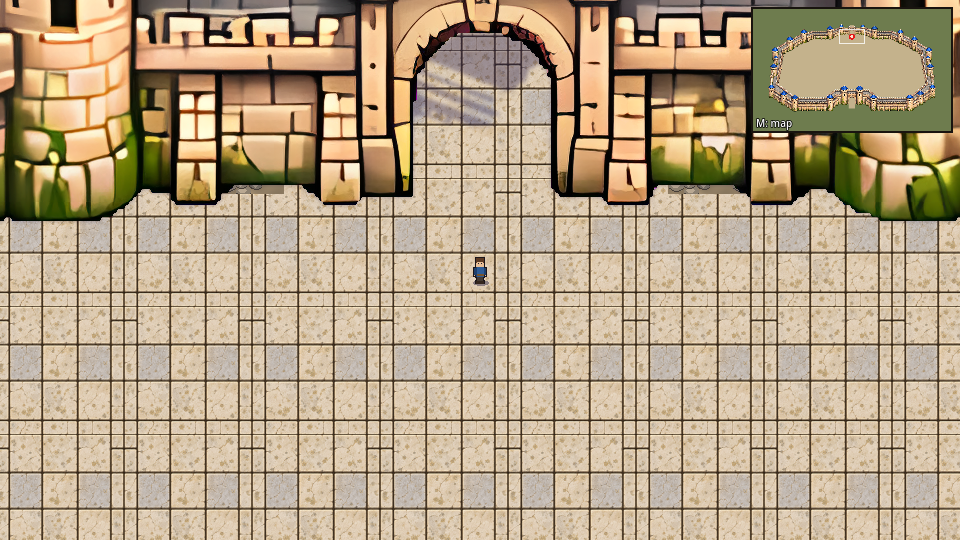
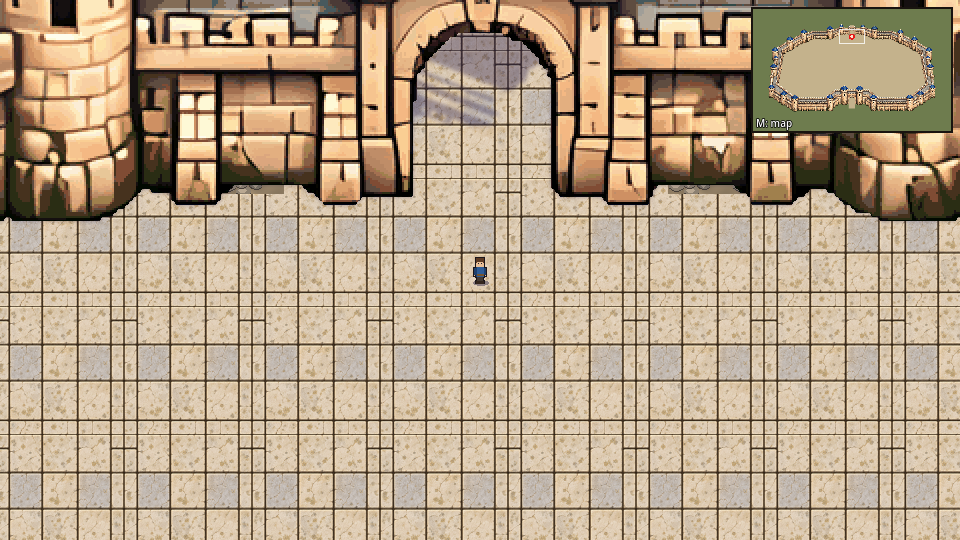
Sharpen the wall art: crisp pixel-art pass, magenta fringe removed
Same structure; the 4x upscale is snapped to a 2x2-pixel grid with a 48-colour palette.

Claude-Session: https://claude.ai/code/session_01GSamoHXsCumctgS8PFsM3M

Changed region(s): [[0.0, 0.0, 1.0, 0.4148], [0.3438, 0.3556, 0.375, 0.3852], [0.0, 0.0, 0.0312, 0.0296]]

diff --git a/tools/pixelize.py b/tools/pixelize.py
@@ -1,0 +1,17 @@
+"""Turns the soft 4x upscale into crisp pixel art: down to a 2x pixel grid, 48-colour palette (no dithering),
+then nearest-neighbour back to 4x, so every art pixel is a hard-edged 2x2 game-pixel block.
+  python3 tools/pixelize.py <ring_x4.png> <out.png> [colours]"""
+import sys
+import numpy as np
+from PIL import Image
+im = Image.open(sys.argv[1]).convert("RGB")
+# magenta bleed from the backdrop: turn pinkish edge pixels into the dark outline colour
+a = np.array(im).astype(int)
+r, g, b = a[..., 0], a[..., 1], a[..., 2]
+pink = (r - g > 50) & (b - g > 40) & (b > 90)
+a[pink] = (46, 34, 38)
+im = Image.fromarray(a.astype(np.uint8))
+n = int(sys.argv[3]) if len(sys.argv) > 3 else 48
+w2, h2 = im.width // 2, im.height // 2
+q = im.resize((w2, h2), Image.LANCZOS).quantize(colors=n, method=Image.Quantize.MEDIANCUT, dither=Image.Dither.NONE)
+q.convert("RGB").resize((w2 * 2, h2 * 2), Image.NEAREST).save(sys.argv[2])

diff --git a/README.md b/README.md
@@ -9,7 +9,7 @@ The outer palace wall ring, built from the single whole-ring image `art/source/w
 
 ## How it is built
 - The ring image is keyed off its magenta backdrop and upscaled 4x (Real-ESRGAN anime 6B, run in numpy:
-  `tools/upscale/`). Because it is one picture there are no joins between pieces.
+  `tools/upscale/`), then made crisp pixel art by `tools/pixelize.py` (2x2 game-pixel blocks, 48-colour palette). Because it is one picture there are no joins between pieces.
 - `tools/build_walls.py`: collision from the art (bands along the inside and outside edges of the ring and under each
   wall), sealed except at the two gate arches (the build fails otherwise); per-pixel ground map for draw order
   (`shaders/wall_front.gdshader` redraws the wall pixels standing in front of Kael); baked shadows; minimap.
@@ -19,7 +19,8 @@ The outer palace wall ring, built from the single whole-ring image `art/source/w
 ```
 python3 tools/build_assets.py art/source/floor_tile.png       # floor, earth, Kael
 W=RealESRGAN_x4plus_anime_6B.pth python3 tools/upscale/esrgan_np.py art/source/walls/ring_magenta.png art/source/walls/ring_magenta_x4.png alpha.png   # ~11 min CPU
-python3 tools/build_walls.py art/source/walls/ring_magenta.png art/source/walls/ring_magenta_x4.png
+python3 tools/pixelize.py art/source/walls/ring_magenta_x4.png art/source/walls/ring_magenta_px.png   # crisp 2x2-pixel art, 48 colours
+python3 tools/build_walls.py art/source/walls/ring_magenta.png art/source/walls/ring_magenta_px.png
 tools/shots.sh                                                 # docs/screenshots
 godot --path . -- --test                                       # reachability test
 ```
